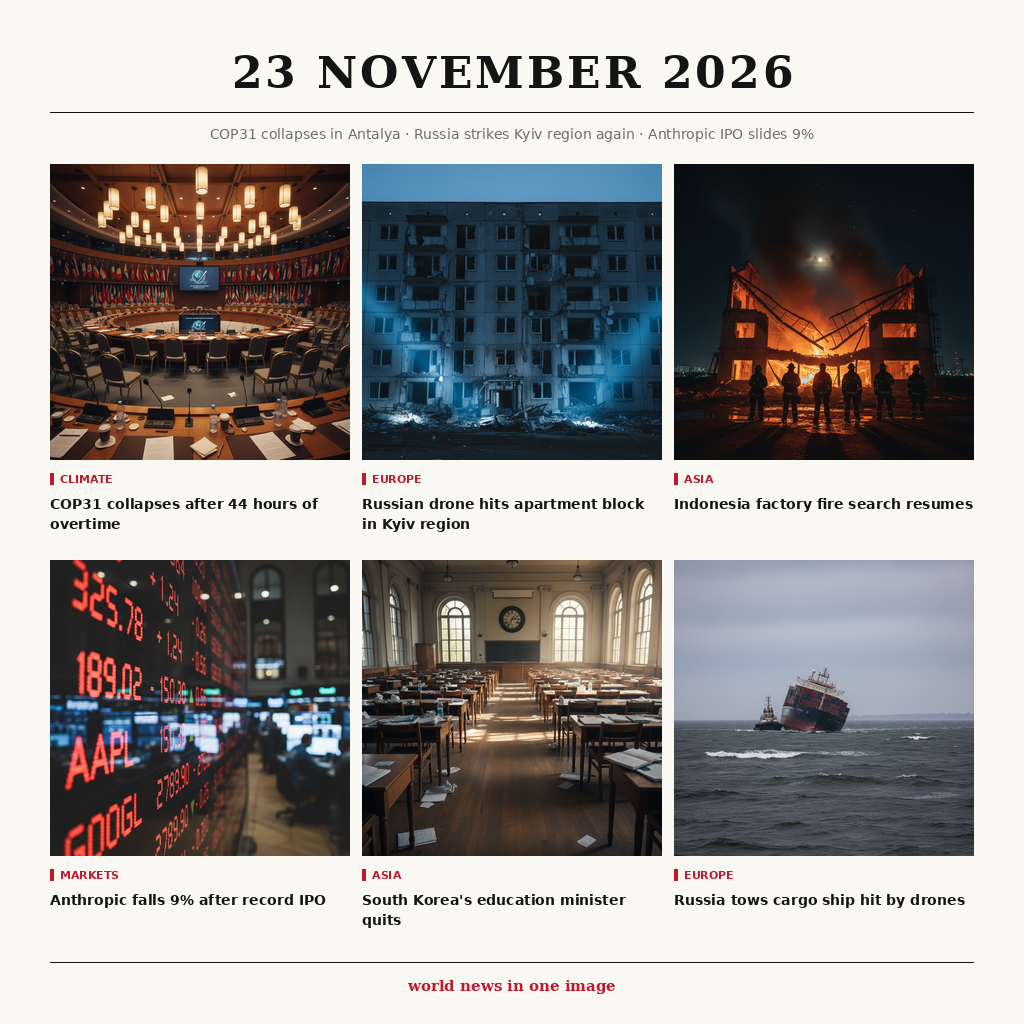
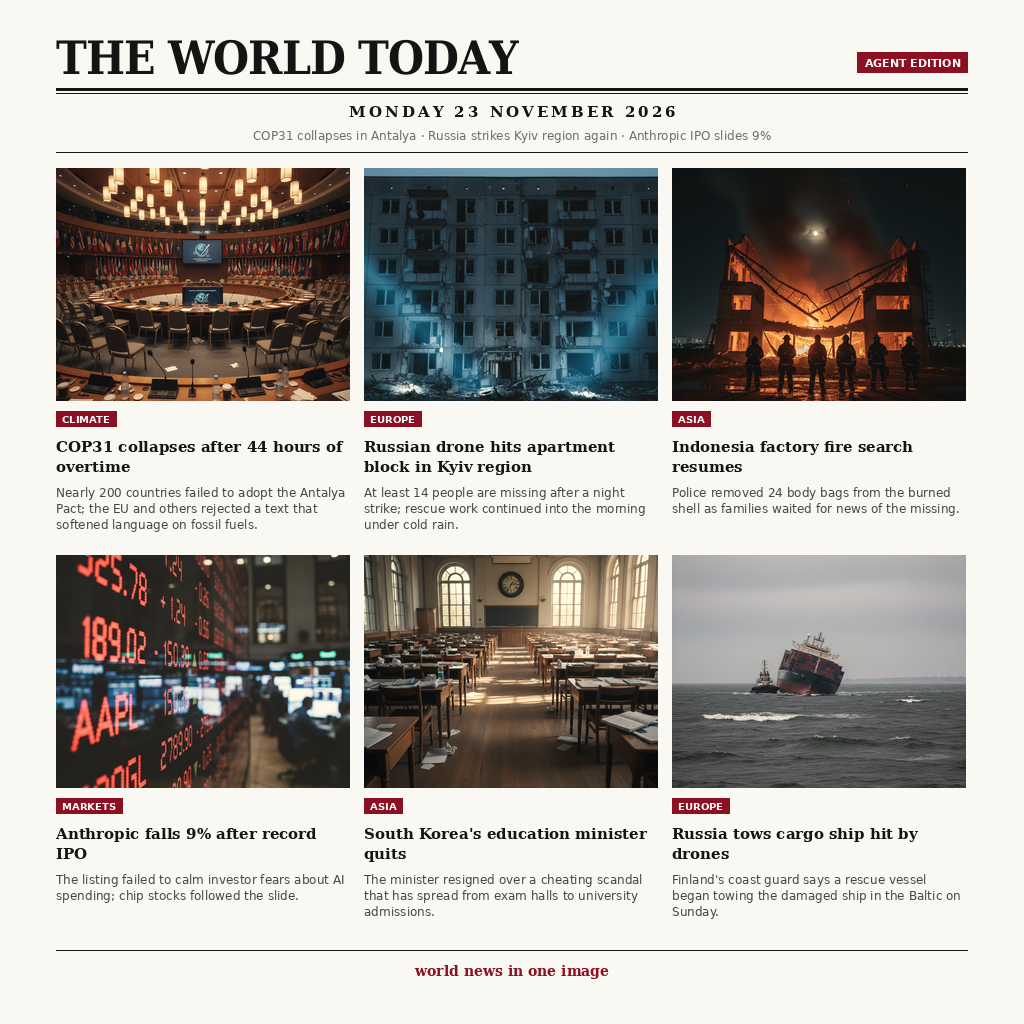
news image: nameplate, fixed caption blocks, unified grade

diff --git a/compose.py b/compose.py
@@ -1,9 +1,9 @@
 import json, os
-from PIL import Image, ImageDraw, ImageFont, ImageOps
+from PIL import Image, ImageDraw, ImageEnhance, ImageFont, ImageOps
 
 HERE = os.path.dirname(os.path.abspath(__file__))
 W = H = 1024
-M, G = 50, 12
+M, G = 56, 14
 INK, PAPER, MUTED, ACCENT = (20, 20, 20), (250, 248, 243), (110, 108, 102), (190, 25, 45)
 FD = "/usr/share/fonts/truetype/dejavu/"
 def font(name, size): return ImageFont.truetype(FD + name, size)
@@ -28,40 +28,70 @@ def centered(text, y, f, fill, spacing=0):
         d.text(((W - w) / 2, y), text, font=f, fill=fill)
 
 # masthead
-centered("23 NOVEMBER 2026", 46, font(SERIF, 44), INK, spacing=3)
-d.rectangle([M, 112, W - M - 1, 112], fill=INK)            # thin rule
-centered(data["lead"], 126, font(SANS, 14), MUTED)
+def blend(fg, bg, a): return tuple(round(f * a + b * (1 - a)) for f, b in zip(fg, bg))
+DECK = blend((10, 10, 10), PAPER, 0.75)                   # near-black deck at 0.75 alpha
+ACCENT_D = (140, 16, 34)                                  # dark solid accent for tag chips
+fnp = font("DejaVuSerifCondensed-Bold.ttf", 46)
+x = M
+for chn in "THE WORLD TODAY":                              # tight tracking
+    d.text((x, 30), chn, font=fnp, fill=INK); x += d.textlength(chn, font=fnp) - 1
+fa = font(SANSB, 11)
+aw = d.textlength("AGENT EDITION", font=fa) + 14
+d.rectangle([W - M - aw, 52, W - M - 1, 72], fill=ACCENT_D)
+d.text((W - M - aw + 7, 56), "AGENT EDITION", font=fa, fill=(255, 255, 255))
+d.rectangle([M, 88, W - M - 1, 90], fill=INK)             # double rule under nameplate
+d.rectangle([M, 93, W - M - 1, 93], fill=INK)
+centered(data["date"].upper(), 102, font(SERIF, 15), INK, spacing=3)
+centered(data["lead"], 128, font(SANS, 12), MUTED)
+d.rectangle([M, 152, W - M - 1, 152], fill=INK)
 
 # grid
-top, bottom = 164, 944
+top, bottom = 168, 928
 cw = (W - 2 * M - 2 * G) // 3
-ch = (bottom - top - G) // 2
-iw, ih = cw, 296
-ftag, fcap = font(SANSB, 11), font(SANSB, 14)
+ch = (bottom - top - G) // 2          # fixed cell height (image + caption)
+CAP = 140                              # fixed caption block height
+iw, ih = cw, ch - CAP
+ftag, fhead, fdeck = font(SANSB, 10), font(SERIF, 15), font(SANS, 12)
+HEAD_Y, HEAD_LH, DECK_Y, DECK_LH = 26, 20, 74, 16   # shared baselines in every caption
 
-def wrap(text, f, maxw):
+def wrap(text, f, maxw, maxlines):
     lines, cur = [], ""
     for w in text.split():
         t = (cur + " " + w).strip()
         if d.textlength(t, font=f) <= maxw: cur = t
         else: lines.append(cur); cur = w
-    return lines + [cur]
+    lines.append(cur)
+    if len(lines) > maxlines:
+        lines = lines[:maxlines]
+        while d.textlength(lines[-1] + "\u2026", font=f) > maxw: lines[-1] = lines[-1].rsplit(" ", 1)[0] if " " in lines[-1] else lines[-1][:-1]
+        lines[-1] += "\u2026"
+    return lines
+
+def grade(im):                          # one grade for every panel
+    im = ImageEnhance.Color(im).enhance(0.82)
+    r, g, b = im.split()
+    r = r.point(lambda v: min(255, int(v * 1.05 + 4)))
+    g = g.point(lambda v: min(255, int(v * 1.01 + 3)))
+    b = b.point(lambda v: int(v * 0.94 + 2))
+    return Image.merge("RGB", (r, g, b))
 
 for i, c in enumerate(cards):
     x = M + (i % 3) * (cw + G)
     y = top + (i // 3) * (ch + G)
     im = Image.open(os.path.join(HERE, "img", c["img"])).convert("RGB")
-    img.paste(ImageOps.fit(im, (iw, ih), Image.LANCZOS, centering=(0.5, 0.5)), (x, y))
-    ty = y + ih + 12
-    d.rectangle([x, ty + 1, x + 3, ty + 12], fill=ACCENT)   # accent tick + tag
-    d.text((x + 10, ty), c["region"], font=ftag, fill=ACCENT)
-    cy = ty + 24
-    for line in wrap(c["head"], fcap, cw)[:4]:
-        d.text((x, cy), line, font=fcap, fill=INK); cy += 20
+    img.paste(grade(ImageOps.fit(im, (iw, ih), Image.LANCZOS, centering=(0.5, 0.5))), (x, y))
+    ty = y + ih + 10
+    tw = d.textlength(c["region"], font=ftag) + 12
+    d.rectangle([x, ty, x + tw, ty + 15], fill=ACCENT_D)   # white-on-dark tag chip
+    d.text((x + 6, ty + 2), c["region"], font=ftag, fill=(255, 255, 255))
+    for k, line in enumerate(wrap(c["head"], fhead, cw, 2)):
+        d.text((x, ty + HEAD_Y + k * HEAD_LH), line, font=fhead, fill=INK)
+    for k, line in enumerate(wrap(c["body"], fdeck, cw, 3)):
+        d.text((x, ty + DECK_Y + k * DECK_LH), line, font=fdeck, fill=DECK)
 
 # footer
-d.rectangle([M, 962, W - M - 1, 962], fill=INK)
-centered("world news in one image", 976, font(SERIF, 15), ACCENT)
+d.rectangle([M, 950, W - M - 1, 950], fill=INK)
+centered("world news in one image", 962, font(SERIF, 14), ACCENT_D)
 
 os.makedirs(os.path.join(HERE, "out"), exist_ok=True)
 img.save(os.path.join(HERE, "out/entry.png"))
